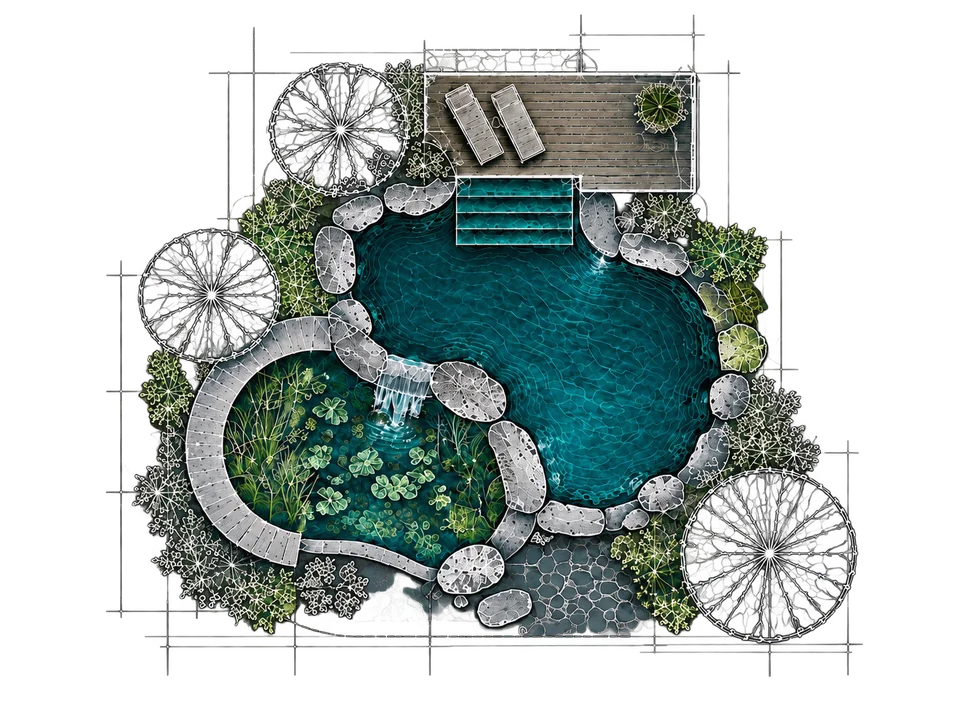
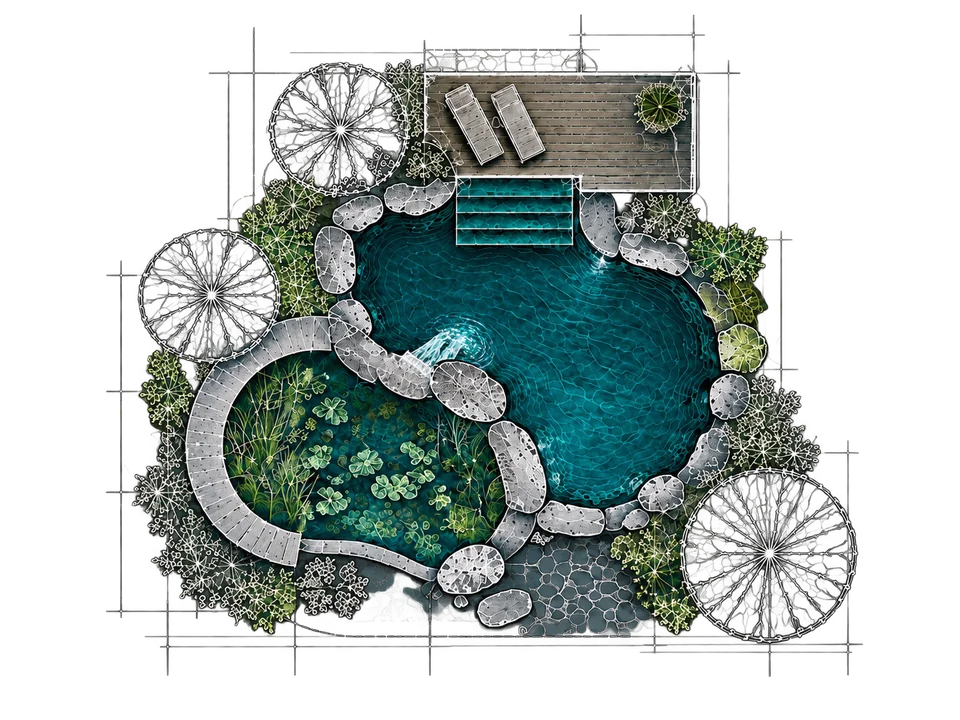
Add Gotland before-and-after story and correct package waterfall

Changed region(s): [[0.375, 0.4278, 0.5312, 0.6417]]

diff --git a/src/app/site/pages/gotland.page.html b/src/app/site/pages/gotland.page.html
@@ -29,53 +29,89 @@
     />
   </cx-hero>
   <fp-certification-strip />
-  @for (story of gotlandStories; track story.film.id) {
-    <section
-      class="cx-container fp-section fp-feature fp-feature--film"
-      [class.fp-feature--reversed]="$odd"
-      [attr.aria-labelledby]="'gotland-' + story.film.id"
-    >
-      <div class="cx-editorial">
-        <h2 [id]="'gotland-' + story.film.id" class="fp-heading cx-font-regular">
-          {{ story.heading }}
+  <section class="cx-container fp-section" aria-labelledby="gotland-before-title">
+    <cx-stack gap="2xl">
+      <div class="cx-editorial cx-measure-md cx-text-center cx-py-xl">
+        <h2 id="gotland-before-title" class="cx-text-display cx-font-regular">
+          {{ gotlandBefore.heading }}
         </h2>
-        <p>{{ story.body }}</p>
+        <p>{{ gotlandBefore.body }}</p>
       </div>
-      <fp-gotland-film [film]="story.film" [heading]="story.heading" />
-    </section>
-    @if (!$last) {
-      <div class="cx-container"><cx-divider /></div>
-    }
-  }
-  <div class="cx-container fp-section">
-    <section [attr.aria-label]="evidence.caseTitle">
-      <cx-masonry [columns]="3" [columnsMobile]="2" gap="lg">
-        @for (item of gotlandPhotos; track item.id) {
-          <a
-            class="cx-figure"
-            [attr.data-gotland-photo]="item.id"
-            [href]="item.src"
-            (click)="gallery.openPhoto($event, item.id)"
-            [attr.aria-label]="gotlandCopy.enlarge + ': ' + item.alt"
-          >
+      <cx-grid [columns]="2" [columnsMobile]="1" gap="lg">
+        @for (item of gotlandBefore.photos; track item.id) {
+          <figure class="cx-figure">
             <img
-              class="cx-w-full cx-rounded-xl"
+              class="cx-rounded-xl"
               [src]="item.preview"
-              [attr.srcset]="
-                item.preview + ' ' + item.width / 2 + 'w, ' + item.src + ' ' + item.width + 'w'
-              "
-              sizes="(max-width: 767px) 50vw, 400px"
+              [attr.srcset]="item.preview + ' 600w, ' + item.src + ' 1200w'"
+              sizes="(max-width: 767px) calc(100vw - 32px), (max-width: 1279px) calc((100vw - 72px) / 2), 578px"
               [alt]="item.alt"
               [width]="item.width"
               [height]="item.height"
-              [attr.loading]="$index < 5 ? 'eager' : 'lazy'"
+              loading="lazy"
               decoding="async"
             />
-          </a>
+          </figure>
         }
-      </cx-masonry>
-    </section>
-  </div>
+      </cx-grid>
+    </cx-stack>
+  </section>
+  <div class="cx-container"><cx-divider /></div>
+  <section class="cx-container fp-section" aria-labelledby="gotland-after-title">
+    <cx-stack gap="2xl">
+      <div class="cx-editorial cx-measure-md cx-text-center cx-py-xl cx-pb-2xl">
+        <h2 id="gotland-after-title" class="cx-text-display cx-font-regular">
+          {{ gotlandAfter.heading }}
+        </h2>
+        <p>{{ gotlandAfter.body }}</p>
+      </div>
+      @for (story of gotlandStories; track story.film.id) {
+        <section
+          class="fp-feature fp-feature--film"
+          [class.fp-feature--reversed]="$odd"
+          [attr.aria-labelledby]="'gotland-' + story.film.id"
+        >
+          <div class="cx-editorial">
+            <h3 [id]="'gotland-' + story.film.id" class="fp-heading cx-font-serif cx-font-regular">
+              {{ story.heading }}
+            </h3>
+            <p>{{ story.body }}</p>
+          </div>
+          <fp-gotland-film [film]="story.film" [heading]="story.heading" />
+        </section>
+        @if (!$last) {
+          <cx-divider />
+        }
+      }
+      <section [attr.aria-label]="evidence.caseTitle">
+        <cx-masonry [columns]="3" [columnsMobile]="2" gap="lg">
+          @for (item of gotlandPhotos; track item.id) {
+            <a
+              class="cx-figure"
+              [attr.data-gotland-photo]="item.id"
+              [href]="item.src"
+              (click)="gallery.openPhoto($event, item.id)"
+              [attr.aria-label]="gotlandCopy.enlarge + ': ' + item.alt"
+            >
+              <img
+                class="cx-w-full cx-rounded-xl"
+                [src]="item.preview"
+                [attr.srcset]="
+                  item.preview + ' ' + item.width / 2 + 'w, ' + item.src + ' ' + item.width + 'w'
+                "
+                sizes="(max-width: 767px) 50vw, 400px"
+                [alt]="item.alt"
+                [width]="item.width"
+                [height]="item.height"
+                [attr.loading]="$index < 5 ? 'eager' : 'lazy'"
+                decoding="async"
+              />
+            </a>
+          }
+        </cx-masonry>
+      </section>
+    </cx-stack>
+  </section>
   <figure class="fp-section fp-project-quote" [attr.data-review]="testimonials[0].id">
     <blockquote>“{{ testimonials[0].quote }}”</blockquote>
     <figcaption class="cx-text-muted">

diff --git a/src/app/site/content/faunapoolen-gotland.ts b/src/app/site/content/faunapoolen-gotland.ts
@@ -106,6 +106,43 @@ export const GOTLAND_COPY = {
   attribution: $localize`:@@site.gotland_copy.attribution:From Brita`,
 } satisfies Record<string, string>;
 
+// Case-study context only; these photographs are not part of the shared gallery.
+export const GOTLAND_BEFORE = {
+  heading: $localize`:@@site.gotland.before.heading:Before the pool`,
+  body: $localize`:@@site.gotland.before.body:Gotland is known for its limestone bedrock, with thin soils and exposed rock across large parts of the island. Here, the ground was very hard, with grass, shrubs and scattered trees. Beside the small cottages, an open area offered a natural place for a pool.`,
+  photos: [
+    photo(
+      'before-house',
+      1200,
+      900,
+      $localize`:@@site.gotland.before.house.alt:Small timber cottages and a stone path beside open, grassy ground before the nature pool was built.`,
+    ),
+    photo(
+      'before-landscape',
+      1200,
+      900,
+      $localize`:@@site.gotland.before.landscape.alt:Grass, shrubs, scattered trees and a large stone in the garden before the nature pool was built.`,
+    ),
+    photo(
+      'before-terrace',
+      1200,
+      1260,
+      $localize`:@@site.gotland.before.terrace.alt:View from the main house across the open garden, with three people on the stone terrace before the nature pool was built.`,
+    ),
+    photo(
+      'before-aerial',
+      1200,
+      1261,
+      $localize`:@@site.gotland.before.aerial.alt:Aerial view of the buildings and garden before the nature pool was built, with yellow property boundary markings.`,
+    ),
+  ],
+} as const;
+
+export const GOTLAND_AFTER = {
+  heading: $localize`:@@site.gotland.after.heading:The finished pool`,
+  body: $localize`:@@site.gotland.after.body:The open space beside the cottages is now a nature pool, edged with natural stone and planting. These films and photographs show the completed project.`,
+} as const;
+
 export const GOTLAND_STORIES = [
   {
     film: film('1226470321', 1, '0:32'),

diff --git a/src/app/site/pages/gotland.page.ts b/src/app/site/pages/gotland.page.ts
@@ -2,8 +2,10 @@ import { ChangeDetectionStrategy, Component } from '@angular/core';
 import {
   CxButtonComponent,
   CxDividerComponent,
+  CxGridComponent,
   CxHeroComponent,
   CxMasonryComponent,
+  CxStackComponent,
 } from '@mikaelcedergren/cx-framework';
 import { FAUNAPOOLEN_COMMERCIAL } from '../content/faunapoolen-commercial';
 import { FAUNAPOOLEN_EDITORIAL } from '../content/faunapoolen-editorial';
@@ -11,7 +13,13 @@ import {
   FAUNAPOOLEN_EVIDENCE_COPY,
   FAUNAPOOLEN_TESTIMONIALS,
 } from '../content/faunapoolen-evidence';
-import { GOTLAND_COPY, GOTLAND_MEDIA, GOTLAND_STORIES } from '../content/faunapoolen-gotland';
+import {
+  GOTLAND_AFTER,
+  GOTLAND_BEFORE,
+  GOTLAND_COPY,
+  GOTLAND_MEDIA,
+  GOTLAND_STORIES,
+} from '../content/faunapoolen-gotland';
 import { CertificationStripComponent } from '../sections/certification-strip.component';
 import { GotlandFilmComponent } from '../sections/gotland-film.component';
 import { GotlandGalleryComponent } from '../sections/gotland-gallery.component';
@@ -23,8 +31,10 @@ import { SiteShellComponent } from '../site-shell.component';
     CertificationStripComponent,
     CxButtonComponent,
     CxDividerComponent,
+    CxGridComponent,
     CxHeroComponent,
     CxMasonryComponent,
+    CxStackComponent,
     SiteShellComponent,
     GotlandFilmComponent,
     GotlandGalleryComponent,
@@ -40,6 +50,8 @@ export class GotlandPage extends SitePage {
 
   protected readonly commercial = FAUNAPOOLEN_COMMERCIAL;
   protected readonly gotlandCopy = GOTLAND_COPY;
+  protected readonly gotlandBefore = GOTLAND_BEFORE;
+  protected readonly gotlandAfter = GOTLAND_AFTER;
   protected readonly gotlandStories = GOTLAND_STORIES;
   protected readonly gotlandPhotos = GOTLAND_MEDIA.filter((item) => item.kind === 'photo');
 }

diff --git a/docs/EDITORIAL-IMAGE-GENERATION.md b/docs/EDITORIAL-IMAGE-GENERATION.md
@@ -8,6 +8,38 @@ Current style authorities, each with approved visual references:
 Earlier prompts below record provenance. Use the relevant current style guide for future edits;
 the blueprint guide owns the reusable prompt, scene briefs and transparent website export rules.
 
+## 25 October 2026: Swim together waterfall direction
+
+Owner requested the same illustration with the connecting waterfall returning from the planted
+pond into the swimming pool. The canonical `public/assets/images/faunapoolen/editorial/package-summer.png`
+and its three served `package-summer-{480,960,1448}.webp` exports change. The approved reference
+snapshots remain unchanged. Responsive WebP exports use quality 85 and preserve alpha transparency.
+The exact corrected 1448 × 1086 composite is preserved in
+`docs/reference-images/package-summer-waterfall-corrected.png`.
+
+Generated with built-in Imagegen, using the existing production image as the edit target and
+style reference, genuine transparency enabled, and the unchanged master prompt from the
+[architectural illustration guide](ARCHITECTURAL-ILLUSTRATION-STYLE.md), followed by this scene prompt:
+
+> Use case: precise-object-edit. This is a surgical EDIT, not a new illustration. The attached existing Swim together medium package image is the sole EDIT TARGET and approved visual reference. Preserve this exact image, geometry, all stones, planted pond, curved timber path, deck and its two loungers, pool entry steps, trees, foliage, water color, fine drafting lines, canvas, framing and transparency. Change ONLY the small waterfall at the boundary between the planted pond at bottom-left and the swimming pool at upper-right.
+>
+> Currently the white waterfall drops down-left into the planted pond and makes a circular splash among the plants. REVERSE THIS FLOW: the planted pond is the upstream side; water must pass over the SAME stone divider and fall UP-RIGHT into the OPEN BLUE SWIMMING POOL. Put the white falling-water strands on the upper-right/pool-facing side of this same spillway, with a small foamy landing and expanding ripples entirely inside the blue swimming pool. Remove the former down-left falling water and splash from the planted side, restoring that tiny area as calm planted pond water. Make the lip and tiny drop read coherently as water leaving the planted pond and entering the main pool. Do not merely add a second waterfall: there must be exactly one waterfall at this connection, now reversed. Keep the edit confined to the existing waterfall and its immediately adjacent landing water. Everything else must remain identical, including other water details. No arrows, new features, labels or redesign.
+>
+> Output one genuine transparent PNG on the existing 1448 by 1086, 4:3 canvas. Preserve exact full illustration scale and positioning.
+
+Full-image attempts changed surrounding details, so the owner explicitly approved precise
+compositing. The selected first output supplied only the waterfall, its landing ripples, and the
+small planted-water area exposed by removing the old cascade. It was aligned and masked onto the
+original, retaining the adjacent original boulder. The second full-image attempt was rejected.
+
+Pixel comparison of the full-resolution composite confirms the entire original alpha channel
+and all pixels outside the local patch are unchanged. When integrating onto `main`, its newer
+mobile image budget and export dimensions were retained: the public PNG is 770 × 577 and the
+largest WebP is 1303 × 977, with the existing 480px and 960px variants. These web exports are
+resized copies; the archived full-resolution composite preserves the exact pixels. All public
+exports remain below 750,000 bytes and retain their stable URLs and transparency.
+The waterfall now lands on the open swimming-water side; the planted side has no falling water.
+
 The five main editorial images were regenerated on 17 September 2026 with the built-in image generation tool. They are AI concept imagery, not photographs documenting completed installations.
 
 The owner retained two motifs: a family gathering on the deck after a swim, and a hand touching water. The other three images use new scenes. The accepted direction is beautiful, natural photography with unposed moments, restrained colour, softer detail and imperfect available light. No HDR, tone mapping or enhanced local contrast. The real Gotland photographs supplied the reference for light, materials and garden character and were not modified.

diff --git a/docs/GOTLAND-BEFORE-PHOTOS.md b/docs/GOTLAND-BEFORE-PHOTOS.md
@@ -1,0 +1,42 @@
+# Gotland before photographs
+
+Added on 25 October 2026 from four owner-supplied images confirmed to show the property before
+the pool. They appear only in the opening story on `/projects/gotland/` and its localized routes,
+after the certification strip and before the first film. They are excluded from the shared
+Gotland gallery and preview sections. The owner requested all four images and no captions;
+the section heading establishes the before context.
+
+| Website asset           | Supplied original                                | Crop from 1200 × 1600 original            |
+| ----------------------- | ------------------------------------------------ | ----------------------------------------- |
+| `before-house.webp`     | `WhatsApp Image 2026-10-24 at 09.56.55.jpeg`     | x=0, y=440, width=1200, height=900        |
+| `before-landscape.webp` | `WhatsApp Image 2026-10-24 at 09.56.56 (1).jpeg` | x=0, y=700, width=1200, height=900        |
+| `before-terrace.webp`   | `WhatsApp Image 2026-10-24 at 09.56.55 (3).jpeg` | x=0, y=340, width=1200, height=1260       |
+| `before-aerial.webp`    | `WhatsApp Image 2026-10-24 at 09.56.55 (2).jpeg` | Full image, no crop; original 1446 × 1520 |
+
+Assets live in `public/assets/images/faunapoolen/gotland/`. Each has a 1200px-wide export and a
+600px-wide `-small.webp` export, WebP quality 82, encoder effort 6, with metadata removed. The
+crops reduce excess sky; no scene elements, colours or photographic details were generated or
+retouched. Responsive sources, explicit dimensions and lazy loading keep delivery proportionate.
+The original supplied files remain unchanged.
+
+The English heading, paragraph and alt text are in `GOTLAND_BEFORE` in
+`src/app/site/content/faunapoolen-gotland.ts`, with counterparts in all seven translation catalogues.
+Copy describes only the starting landscape. The owner confirmed the very hard ground, the
+open area beside the small cottages, and that the terrace photograph was taken from the main
+house. It makes no claims about dates, construction stages or Brita’s original brief. Ben can
+refine the account when more project background is available.
+
+The completed films and existing photo gallery sit under a separate `GOTLAND_AFTER` heading
+and introduction, identifying them as the finished project. Individual film stories are nested
+under that chapter. The original gallery contents are unchanged.
+
+## Geological background
+
+The regional description was checked on 25 October 2026 against
+[SGU’s geological overview of Gotland, report 2021:27, page 8](https://resource.sgu.se/dokument/publikation/sgurapport/sgurapport202127rapport/s2127-rapport.pdf)
+and [Länsstyrelsen Gotland’s geological overview](https://www.lansstyrelsen.se/gotland/miljo-och-vatten/fororenade-omraden/lanets-arbete-med-fororenade-omraden/forutsattningar-for-arbetet-med-fororenade-omraden.html).
+Gotland’s bedrock includes limestone and marlstone; thin soils and exposed rock occur across
+large areas, while other areas have deeper, often clay-rich glacial deposits. The public copy
+uses the regional limestone and thin-soil context without identifying this property's precise
+soil or underlying rock. The site's very hard ground comes from the owner's account. No
+site-specific depth, excavation method, drainage claim or exposed bedrock is inferred.
